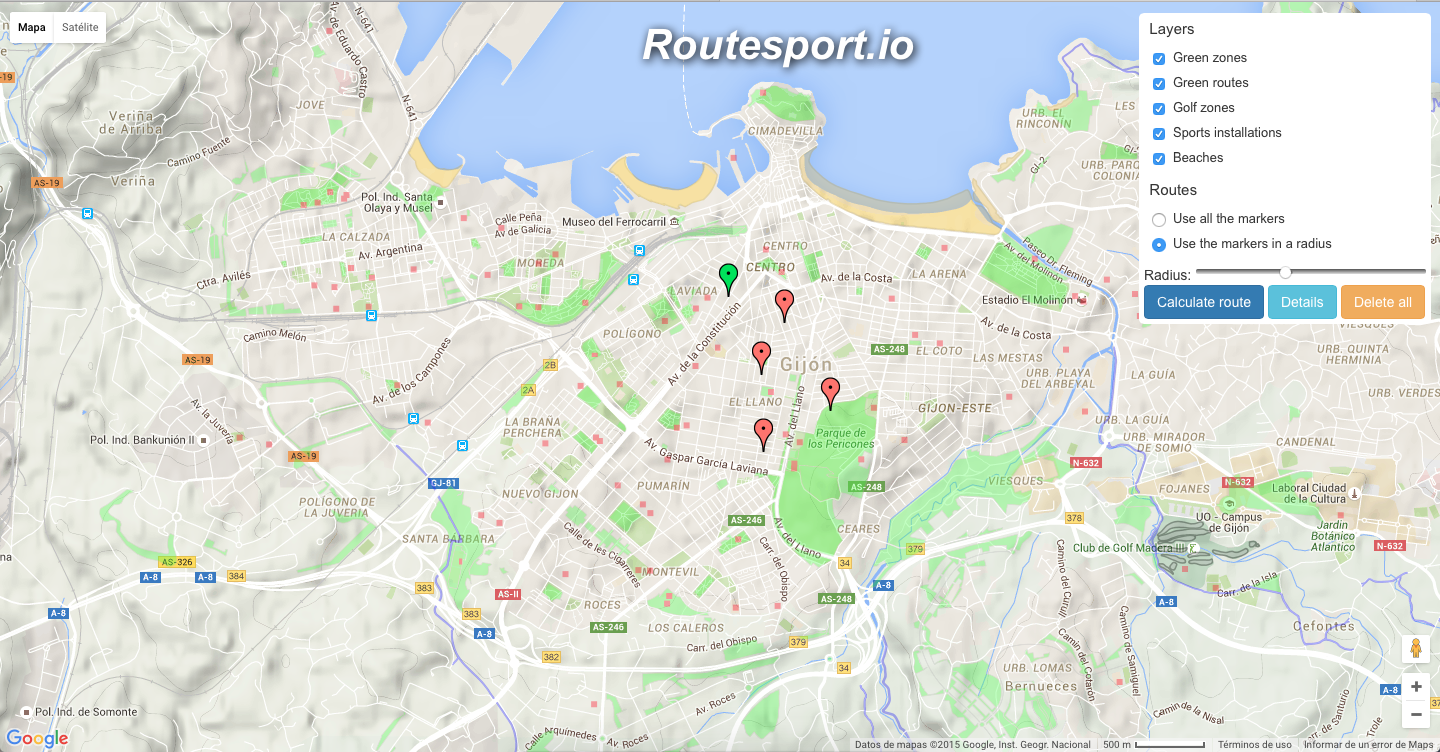
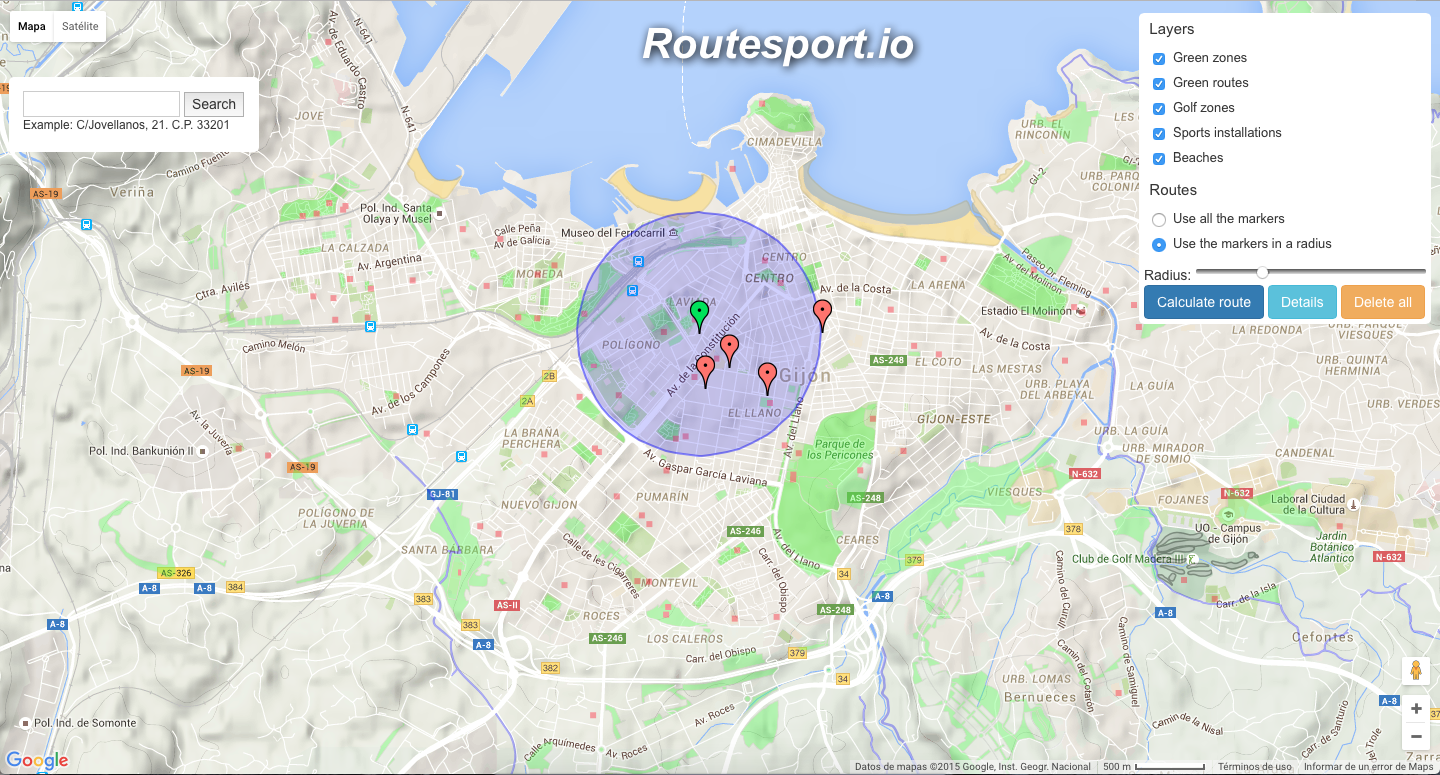
Add geocoding, improve design and renew screenshots

diff --git a/main.js b/main.js
@@ -17,6 +17,7 @@ var wmsParameters;
 var radius = 0;
 var radiusOverlay;
 var routeType = "all";
+var geocoder;
 //var wmsStyle = "polygon,line"
 
 google.load("visualization", "1", {packages: ["columnchart"]});
@@ -61,6 +62,8 @@ function initialize() {
   google.maps.event.addListener(map, 'click', function(event) {
     setMarkers(event.latLng);
   });
+
+  geocoder = new google.maps.Geocoder();
 
   // Al inicio seleccionar todos los checkbox y añadir las capas
   selectAllCheckboxes();
@@ -227,7 +230,9 @@ function routeDetailInformation() {
 
   if(markers.length==0) {
     document.getElementById('no_route_txt').innerHTML = "You have to calculate a route";
+    document.getElementById("elevation_title").className = "txt_hidden";
   } else {
+    document.getElementById("elevation_title").className = "txt_show";
     document.getElementById("no_route_txt").className = "txt_hidden";
     // Create an ElevationService.
     elevator = new google.maps.ElevationService();
@@ -320,4 +325,16 @@ function setRouteType(type) {
       document.getElementById("range-slider").disabled = false;
       break;
   }
+}
+
+function setGeocodingAddress() {
+  var dir = document.getElementById("direction").value;
+  geocoder.geocode( { 'country': 'ES', 'latLng': centre,'address': dir}, function(results, status) {
+    if (status == google.maps.GeocoderStatus.OK) {
+      map.setCenter(results[0].geometry.location);
+      map.setZoom(16);
+    } else {
+      alert("Geocode was not successful for the following reason: " + status);
+    }
+  }); 
 }

diff --git a/index.html b/index.html
@@ -20,6 +20,13 @@
     <div class="title">
       <h1>Routesport.io</h1>
     </div>
+    <div id="direction-container" class="direction-container">
+      <form id="direction-form" action="javascript:setGeocodingAddress()">
+        <input id="direction" type="text" class="direction-txt"> 
+        <input id="direction-btn" type="submit" class="direction-btn" value="Search"> 
+      </form>
+      <p id="direction-example" class="direction-example">Example: C/Jovellanos, 21. C.P. 33201</p>
+    </div>
     <div id="map" class="map"></div>
     <div id="menu" class="menu">
       <div id="layers-controls" class="layers-controls">

diff --git a/css/main.css b/css/main.css
@@ -30,6 +30,27 @@ h1 {
   font-size: 42px;
 }
 
+.direction-container {
+  left: 0.6%;
+  padding: 1% 1% 0.5% 1%;
+  position: absolute;
+  z-index: 2;
+  background-color: #fff;
+  border-radius: 5px;
+}
+
+.direction-txt {
+  z-index: 2;
+}
+
+.direction-btn {
+  z-index: 2;
+}
+
+.direction-example {
+  font-size: 12px;
+}
+
 .map {
   position: absolute;
   top: 0;
@@ -68,7 +89,7 @@ h1 {
 }
 
 .no_route_txt {
-  padding-top: 18%;
+  padding-top: 9%;
   text-align: center;
   font-size: 46px;
   font-weight: bold;
